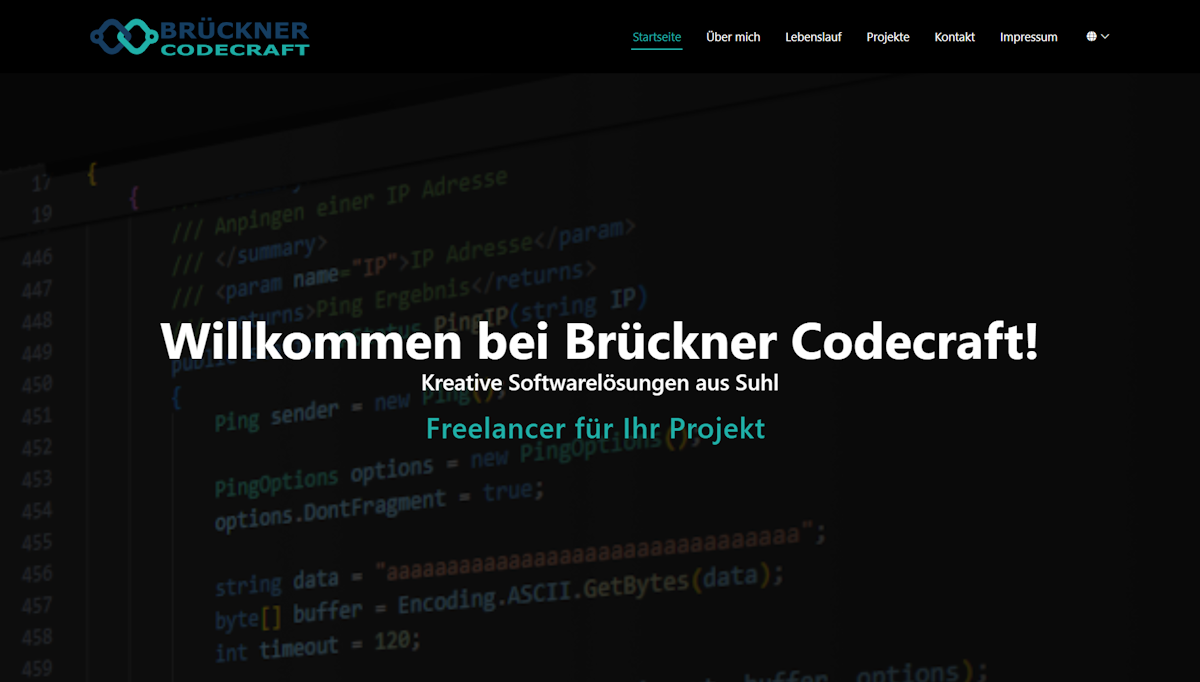
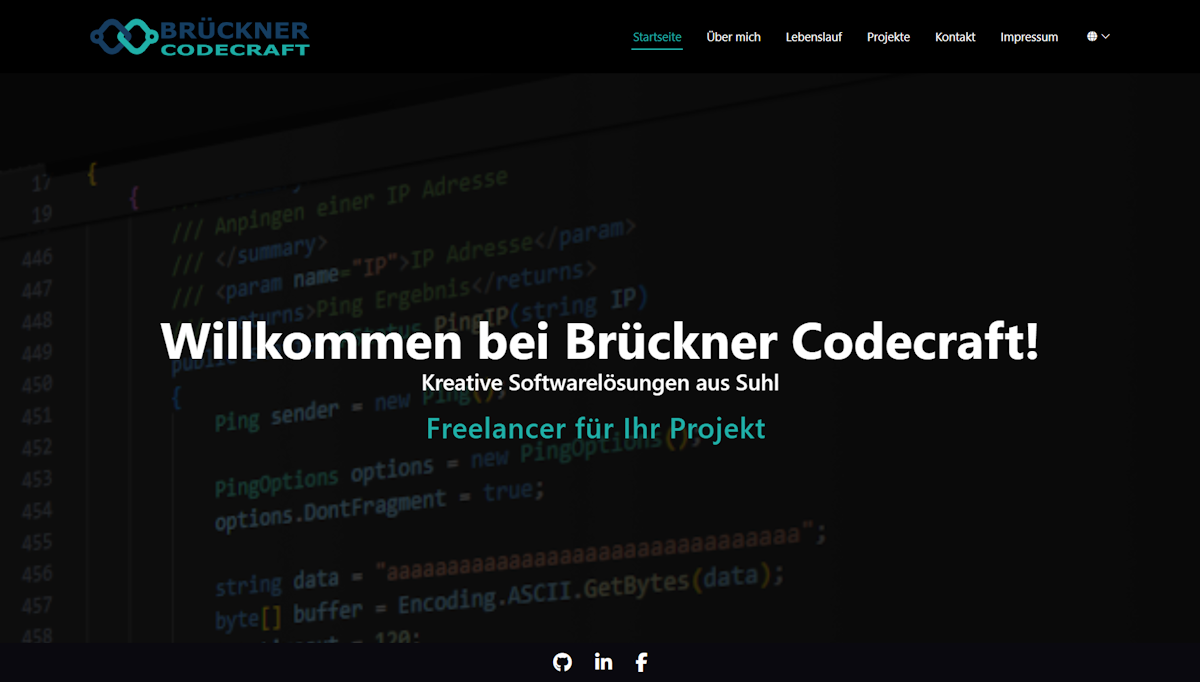
Ready to release - Added footer - Added footer styles - Added social links - Updated Preview

diff --git a/index.html b/index.html
@@ -407,6 +407,12 @@
     <script src="js/resume.js"></script>
     <script src="js/lang.js"></script>
     <script src="https://kit.fontawesome.com/0b40067d86.js" crossorigin="anonymous"></script>
+
+    <footer class="footer d-flex justify-content-center align-items-center">
+        <a href="https://github.com/mabrueckner" target="_blank" class="footer-icon"><i class="fab fa-github"></i></a>
+        <a href="https://www.linkedin.com/in/maik-brückner" target="_blank" class="footer-icon"><i class="fab fa-linkedin-in"></i></a>
+        <a href="https://facebook.com/profile.php?id=61573759767960" target="_blank" class="footer-icon"><i class="fab fa-facebook-f"></i></a>
+    </footer>
 </body>
 
 </html>

diff --git a/css/main.css b/css/main.css
@@ -669,3 +669,27 @@ section,
   bottom: 0;
   margin: auto;
 }
+
+/*--------------------------------------------------------------
+# Footer Section
+--------------------------------------------------------------*/
+.footer {
+  background: var(--heading-color);
+  position: fixed;
+  bottom: 0;
+  width: 100%;
+  height: 50px;
+  z-index: 1000;
+  gap: 30px;
+}
+
+.footer-icon {
+  color: var(--surface-color);
+  font-size: 1.5rem;
+  transition: color 0.3s;
+}
+
+.footer-icon:hover {
+  color: var(--secondary-color);
+  text-decoration: none;
+}
